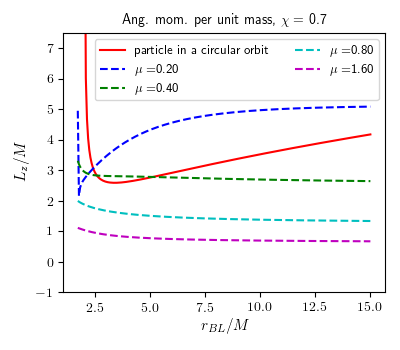
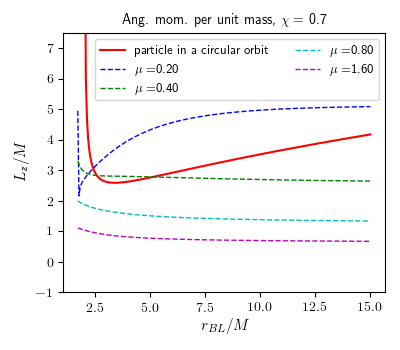
new plots

diff --git a/Analysis/scripts/Effective_potential_v3.py b/Analysis/scripts/Effective_potential_v3.py
@@ -1,4 +1,6 @@
 import numpy as np
+from matplotlib import rc
+rc('text', usetex=True)
 import matplotlib.pyplot as plt
 import cmath
 
@@ -55,9 +57,19 @@ def V_eff(r, chi, l, m, mu, M=1):
 	return V
 
 # plot potential
-colours = ['b--', 'b-', 'b-.','r-', 'g-', 'c-', 'r--', 'r-.']
+colours = ['b--', 'b-', 'b-.','r-', 'g-', 'c-', 'y-', 'r-.']
 #almmu = [(0.99, 1, 1, 0.4), (0.99, 2, 2, 0.4), (0.99, 1, 1, 0.05), (0.99, 1, 1, 0.5), (0.99, 0, 0, 0.194), (0.99, 0, 0, 0.01), (0.99, 0, 0, 0.4)]
-almmu = [(a, 1, 1, 0.1), (a, 1, 1, 0.4), (a, 1, 1, 0.5), (a, 0, 0, 0.4), (a, 1, -1, 0.4), (0.99, 1, 1, 0.4), (0, 0, 0, 0.4)]
+almmu = [(a, 1, 1, 0.1), (a, 1, 1, 0.4), (a, 1, 1, 0.5), (a, 0, 0, 0.4), (a, 1, -1, 0.4), (0.99, 1, 1, 0.4), (0, 1, 1, 0.4)]
+# plot setup
+ax1 = plt.axes()
+fig = plt.gcf()
+fig.set_size_inches(3.9,3.5)
+font_size = 10
+title_font_size = 10
+label_size = 11
+legend_font_size = 9
+#rc('xtick',labelsize=font_size)
+#rc('ytick',labelsize=font_size)
 for i in range(0, len(almmu)):
 	a, l, m, mu  = almmu[i]
 	M = 1
@@ -66,12 +78,12 @@ for i in range(0, len(almmu)):
 	r = r_plus + np.logspace(np.log10(0.001), np.log10(r_max), 500)
 	r_star = r + ((r_plus**2)*np.log(r - r_plus) - (r_minus**2)*np.log(r - r_minus))/(r_plus - r_minus)
 	y = V_eff(r, a, l, m, mu, M)
-	plt.plot(r_star, y, colours[i], label="a={:.2f} l={:d} m={:d} $M\\mu$={:.3f}".format(a, l, m, mu))
+	ax1.plot(r_star, y, colours[i], label="$\\chi=${:.2f} $l,m=${:d},{:d} $\\mu$={:.1f}".format(a, l, m, mu), linewidth=1)
 	print("plotted V_eff for a={:.2f} l={:d} m={:d} $M\\mu$={:.2f}".format(a, l, m, mu))
-plt.ylabel("$V_{eff} - \\mu^2$")
-plt.xlabel("$r_*$")
-plt.legend()
-plt.title("Effective potential for a Kerr Black Hole")
+plt.ylabel("$V_{eff} - \\mu^2$", fontsize=label_size)
+plt.xlabel("$r_*$", fontsize=label_size)
+plt.legend(fontsize=legend_font_size)
+plt.title("Effective potential for a Kerr Black Hole", fontsize=title_font_size)
 plt.tight_layout()
 plot_path = "/home/dc-bamb1/GRChombo/Analysis/plots/"
 save_name = "Effective_Kerr_potential_v3.png"

diff --git a/Analysis/scripts/Kerr_circular_orbit_ang_mom.py b/Analysis/scripts/Kerr_circular_orbit_ang_mom.py
@@ -45,7 +45,7 @@ ax1.plot(q0, L, 'r-', label="particle in a circular orbit")
 for i in range(0,len(Mmu_list)):
 	Mmu = Mmu_list[i]
 	Lexp = field_Lz(q0, Mmu, a, 1)
-	ax1.plot(q0, Lexp, colours[i], label="$\\mu=${:.2f}".format(Mmu)) 
+	ax1.plot(q0, Lexp, colours[i], label="$\\mu=${:.2f}".format(Mmu), linewidth=1) 
 plt.legend(fontsize=legend_font_size, ncol=2)
 plt.xlabel("$r_{BL}/M$", fontsize=label_size)
 plt.ylabel("$L_z/M$", fontsize=label_size)
